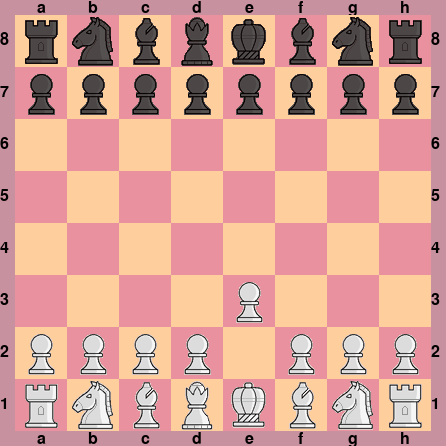
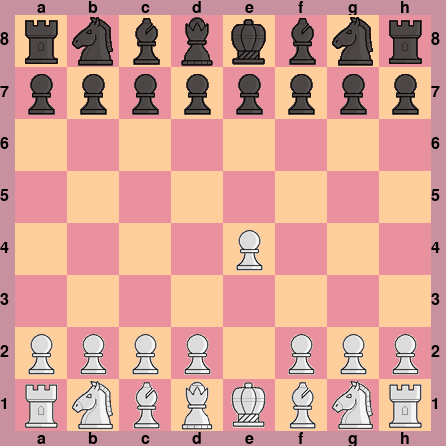
upd readme

Changed region(s): [[0.5247, 0.4955, 0.6121, 0.7287]]

diff --git a/README.md b/README.md
@@ -1,2 +1,4 @@
 # sceix-telegram-bot
-Telegram bot that generates images of a chess board.
+Telegram bot that generates images of a chess board. @simplechessbot
+# Example
+![](generated/board.png)
